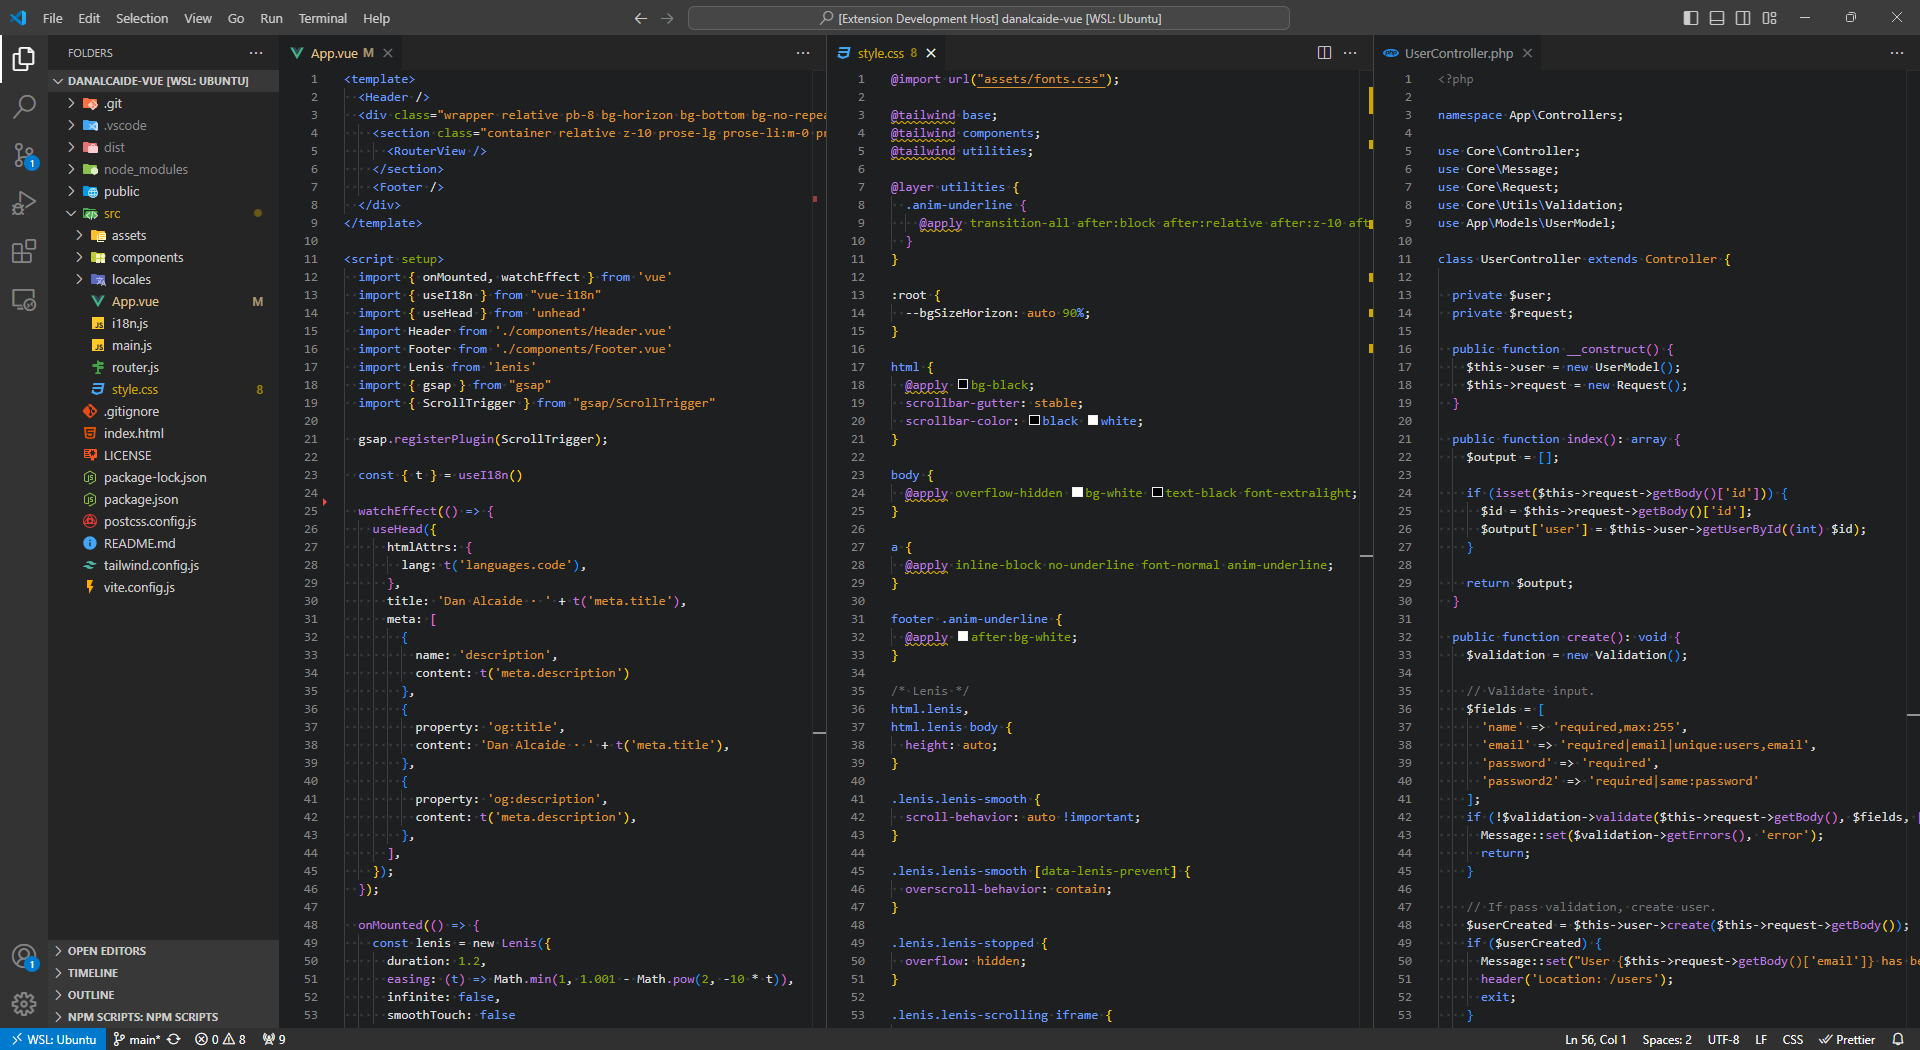
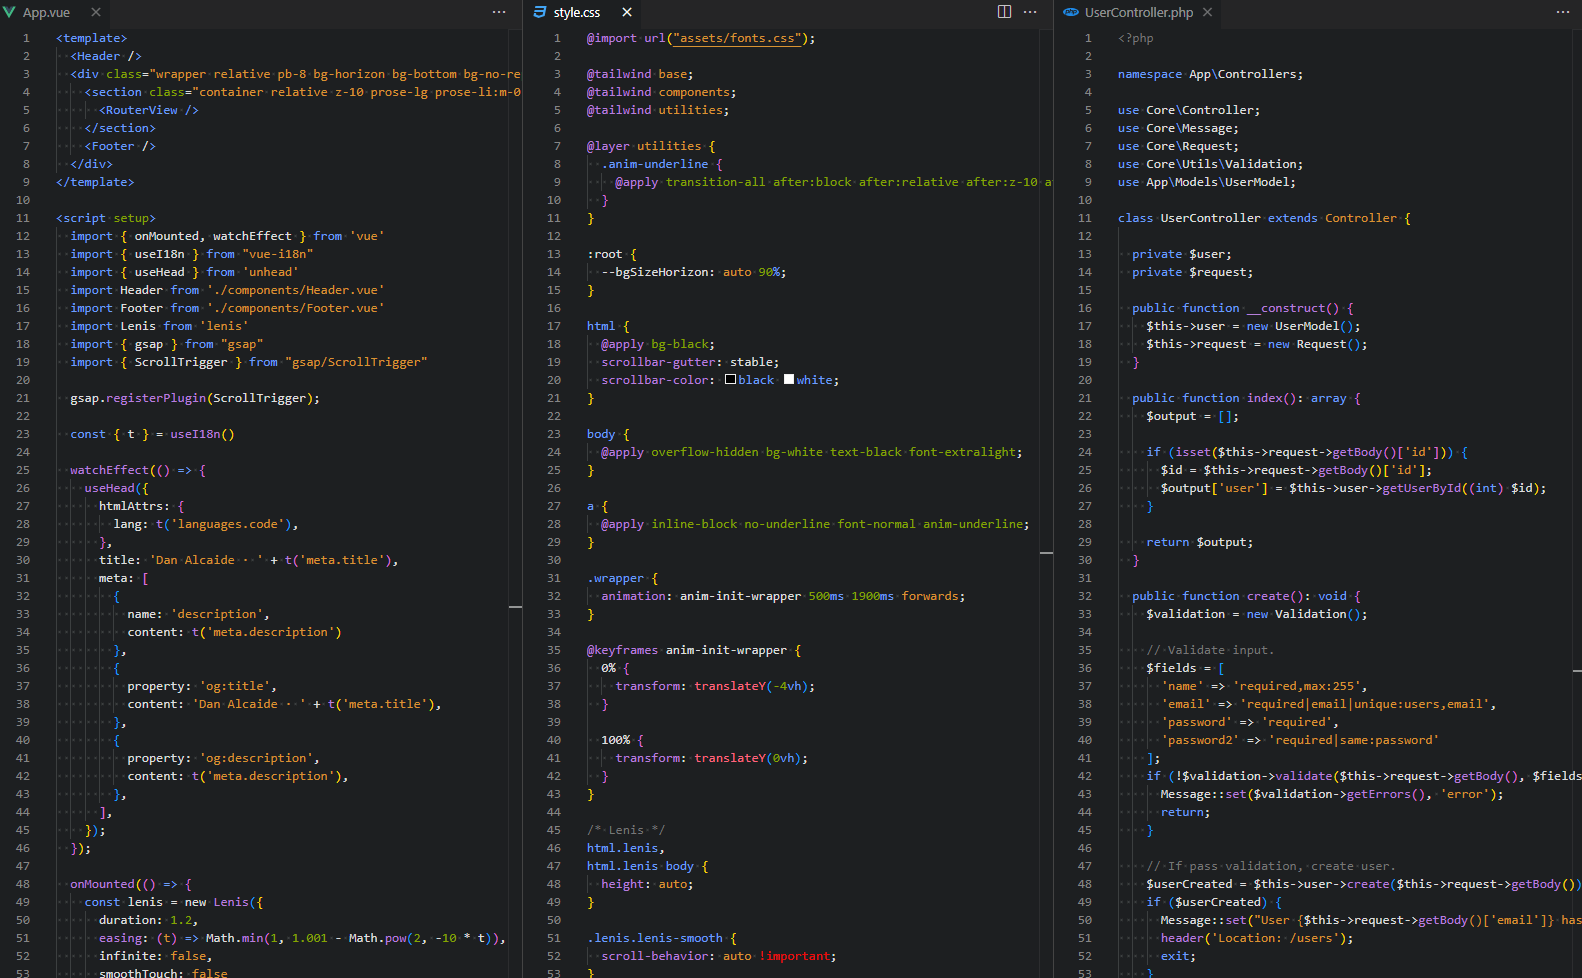
Fix some colours for CSS and SCSS, update info

diff --git a/README.md b/README.md
@@ -1,5 +1,5 @@
 # Brackets Dark Pro
 
-Dark theme for VS Code based on the built-in theme of [Brackets](https://brackets.io) editor and its fork [Phoenix Code](https://phcode.io) with some slight variations.
+Dark theme for VS Code based on the built-in theme of [Brackets](https://brackets.io) editor (and its fork [Phoenix Code](https://phcode.io)) with some variations.
 
 ![Brackets Dark Pro](https://raw.githubusercontent.com/skabeche/brackets-dark-pro-vscode/main/images/brackets-dark-pro.png)

diff --git a/CHANGELOG.md b/CHANGELOG.md
@@ -1,9 +1,14 @@
 # Change Log
 
-All notable changes to the "brackets-dark-pro" extension will be documented in this file.
+## 1.1.1
 
-Check [Keep a Changelog](http://keepachangelog.com/) for recommendations on how to structure this file.
+- Fix some colours for CSS and SCSS.
+- Update Readme.md and screenshot.
 
-## [Unreleased]
+## 1.1.0
+
+- Add colours for CSS, SCSS and Tailwind.
+
+## 1.0
 
 - Initial release
